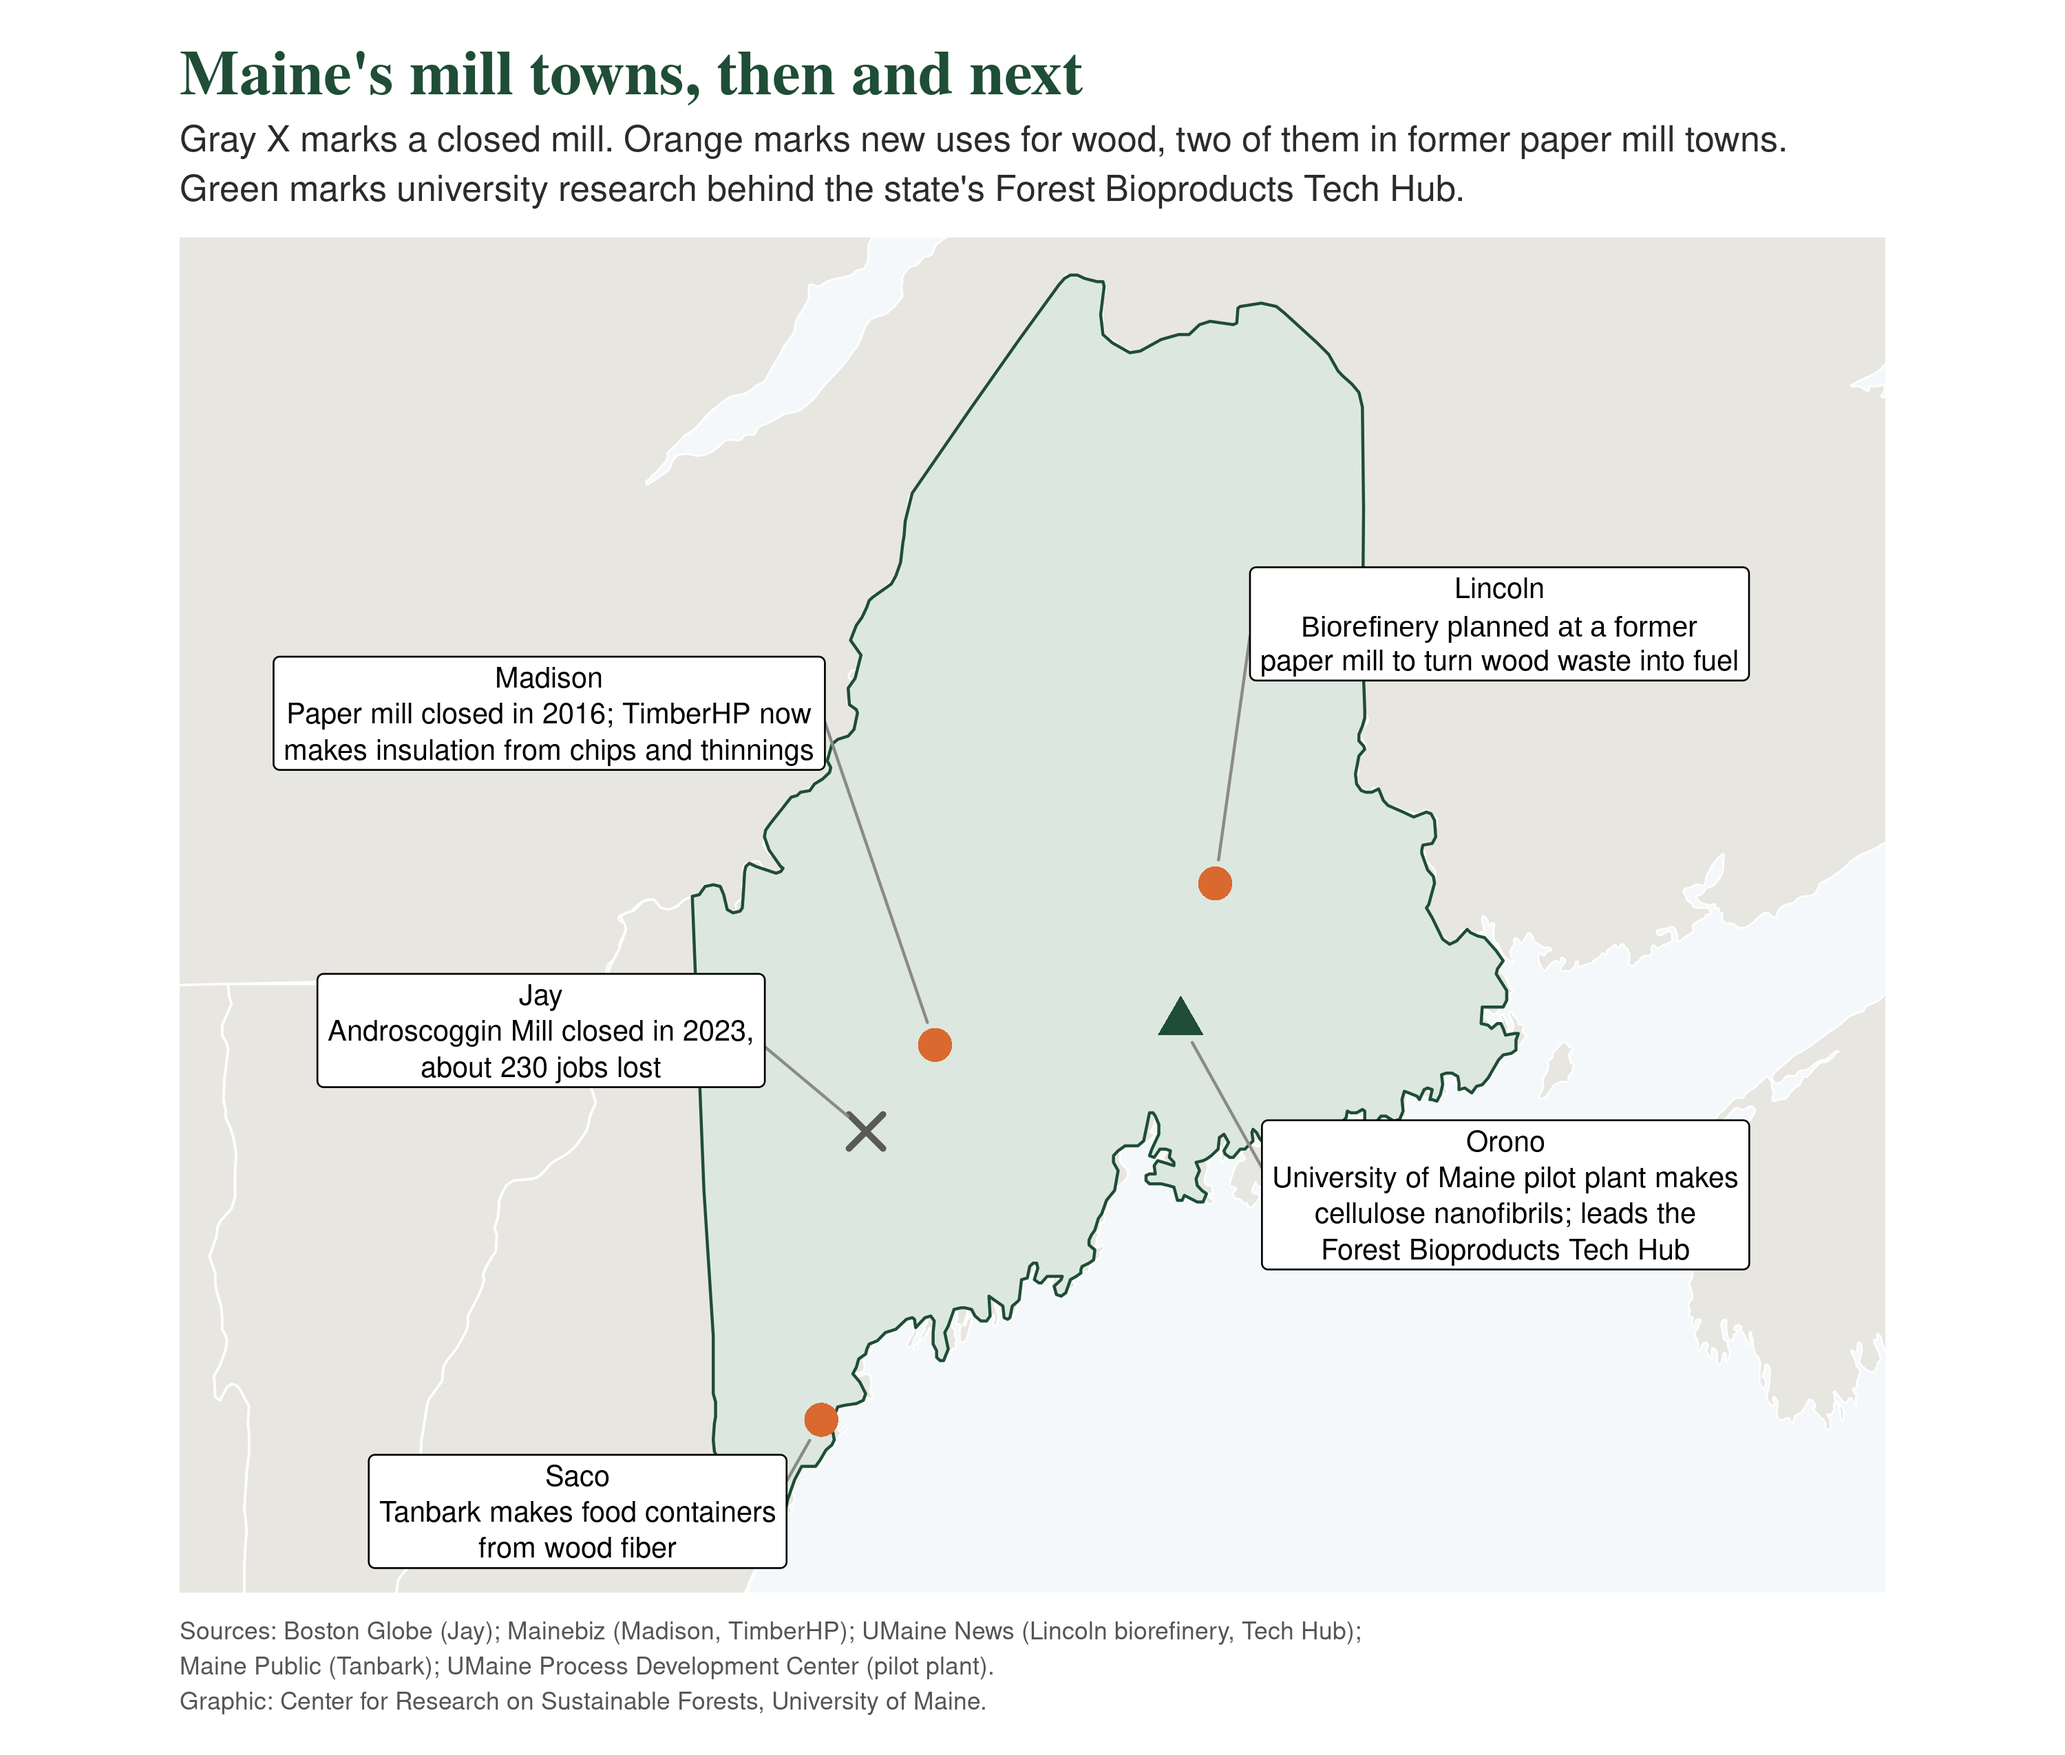
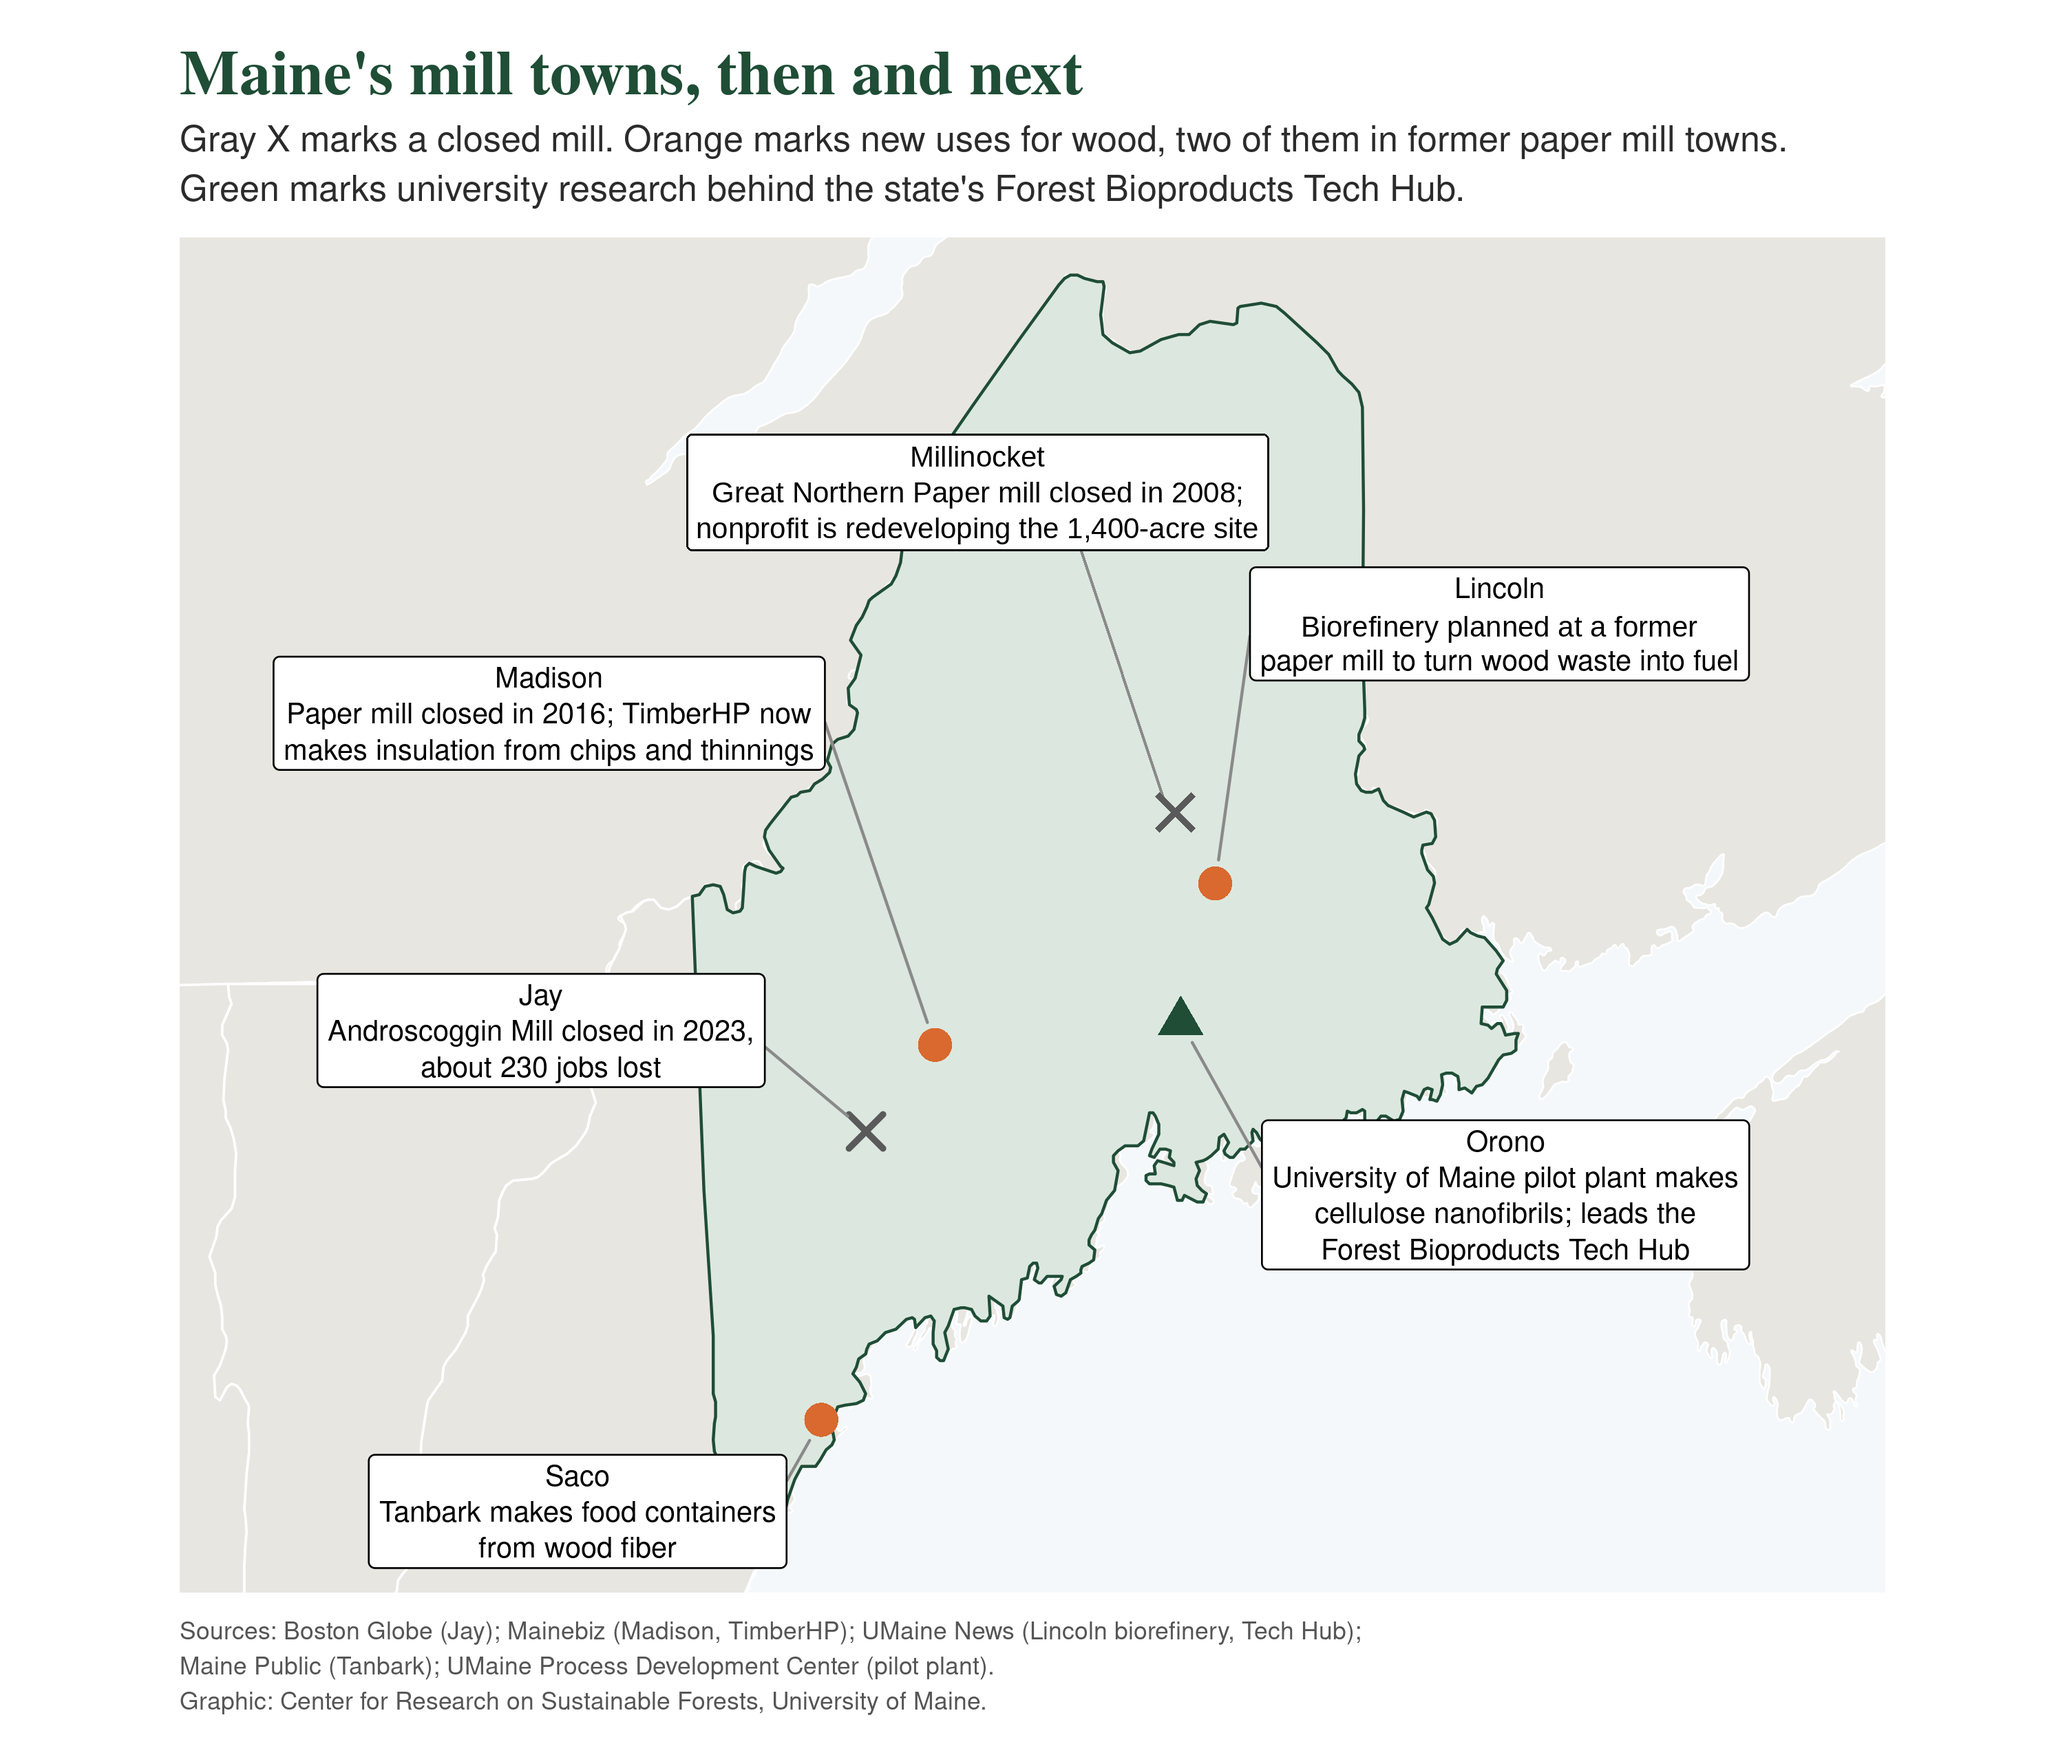
Add Millinocket to mill towns map
Claude-Session: https://claude.ai/code/session_013WsDVoeaXCGmdbNt2QvfhH

Changed region(s): [[0.31, 0.2478, 0.62, 0.3408], [0.558, 0.4337, 0.589, 0.4647]]

diff --git a/wood-travels/README.md b/wood-travels/README.md
@@ -9,3 +9,5 @@ Two maps for "Cutting a tree can help save a forest, but only if the wood has so
 Routes are schematic and show origin and destination, not shipping paths. Figures cited on the maps come from J.D. Irving, Rabobank, the Maine Forest Service 2023 Wood Processor Report (via maineforestdashboard.com), Maine TREE Foundation, Boston Globe, Mainebiz, UMaine News, Maine Public and the UMaine Process Development Center.
 
 Graphic: Center for Research on Sustainable Forests, University of Maine.
+
+Note (November 10, 2026): the Millinocket marker and label on the mill towns map were added to the PNG by hand after the R run; the R script does not yet draw them.
